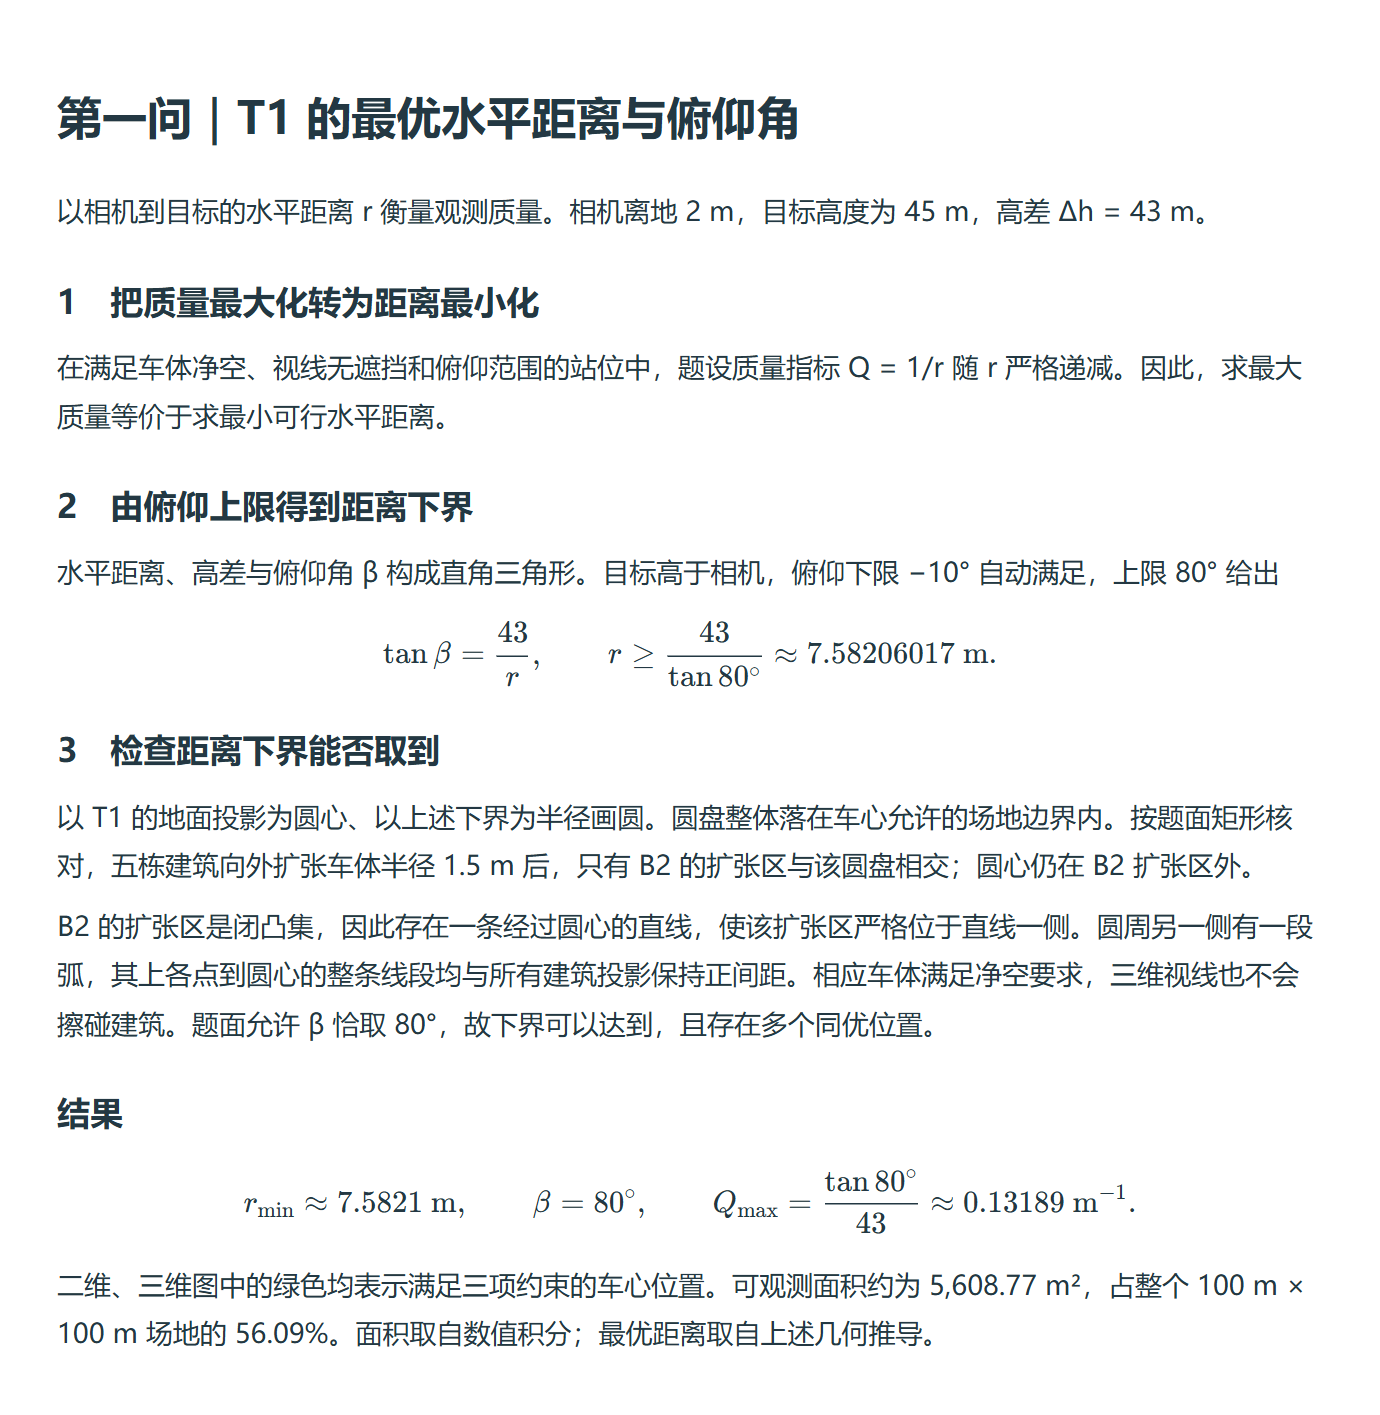
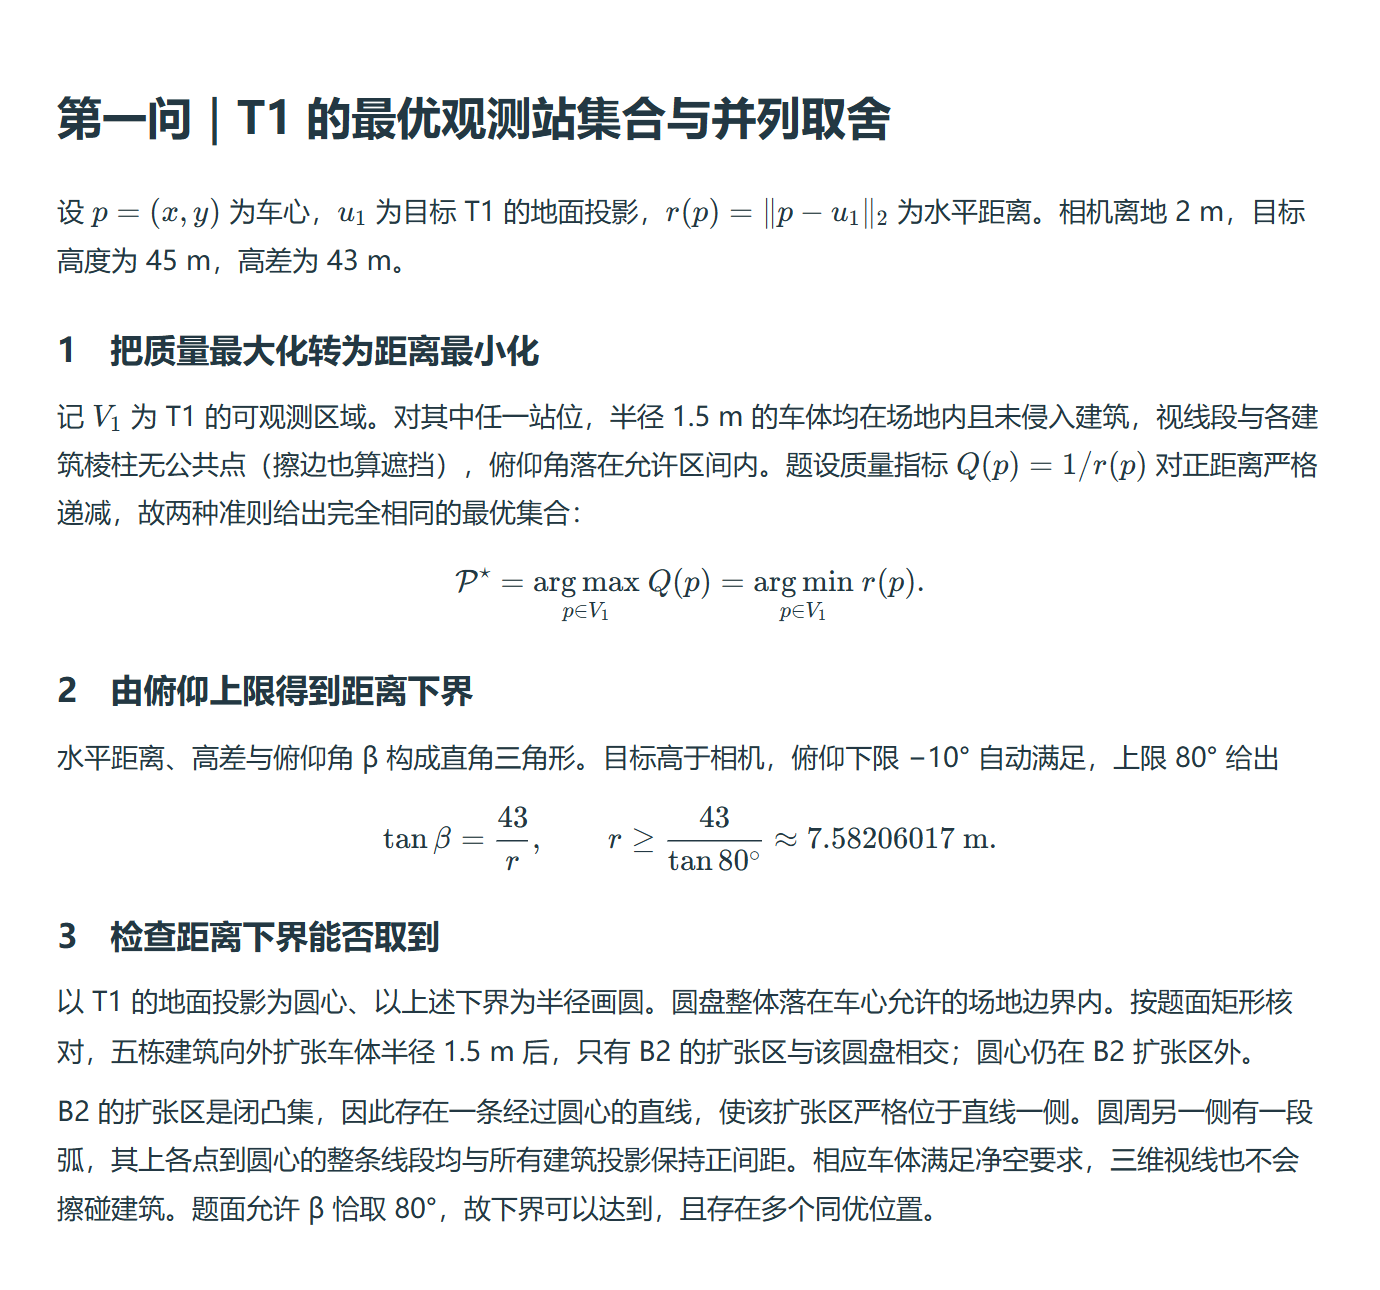
补全第一问最优集合及并列规则并同步节点

Changed region(s): [[0.0312, 0.4961, 0.9659, 0.9612], [0.0312, 0.062, 0.9659, 0.4961]]

diff --git a/第一问/文档/第一问推导与结果.md b/第一问/文档/第一问推导与结果.md
@@ -1,10 +1,12 @@
-# 第一问｜T1 的最优水平距离与俯仰角
+# 第一问｜T1 的最优观测站集合与并列取舍
 
-以相机到目标的水平距离 r 衡量观测质量。相机离地 2 m，目标高度为 45 m，高差 Δh = 43 m。
+设 $p=(x,y)$ 为车心，$u_1$ 为目标 T1 的地面投影，$r(p)=\|p-u_1\|_2$ 为水平距离。相机离地 2 m，目标高度为 45 m，高差为 43 m。
 
 ## 1　把质量最大化转为距离最小化
 
-在满足车体净空、视线无遮挡和俯仰范围的站位中，题设质量指标 Q = 1/r 随 r 严格递减。因此，求最大质量等价于求最小可行水平距离。
+记 $V_1$ 为 T1 的可观测区域。对其中任一站位，半径 1.5 m 的车体均在场地内且未侵入建筑，视线段与各建筑棱柱无公共点（擦边也算遮挡），俯仰角落在允许区间内。题设质量指标 $Q(p)=1/r(p)$ 对正距离严格递减，故两种准则给出完全相同的最优集合：
+
+$$\mathcal P^\star=\underset{p\in V_1}{\arg\max}\ Q(p)=\underset{p\in V_1}{\arg\min}\ r(p).$$
 
 ## 2　由俯仰上限得到距离下界
 
@@ -18,8 +20,20 @@ $$\tan\beta=\frac{43}{r},\qquad r\geq\frac{43}{\tan 80^\circ}\approx 7.58206017\
 
 B2 的扩张区是闭凸集，因此存在一条经过圆心的直线，使该扩张区严格位于直线一侧。圆周另一侧有一段弧，其上各点到圆心的整条线段均与所有建筑投影保持正间距。相应车体满足净空要求，三维视线也不会擦碰建筑。题面允许 β 恰取 80°，故下界可以达到，且存在多个同优位置。
 
-## 结果
+## 4　最优站位集合与对应数值
+
+令 $r_\star=43/\tan80^\circ$（米）。由下界及其可达性，全部最优站位恰为可观测区域与该等距圆周的交集：
+
+$$\mathcal P^\star=V_1\cap\{p:\|p-u_1\|_2=r_\star\}.$$
+
+圆周上满足三项可观测条件的每个点均取得以下数值。集合判定使用精确半径，展示时才四舍五入。
 
 $$r_{\min}\approx7.5821\ \mathrm{m},\qquad \beta=80^\circ,\qquad Q_{\max}=\frac{\tan80^\circ}{43}\approx0.13189\ \mathrm{m}^{-1}.$$
 
-二维、三维图中的绿色均表示满足三项约束的车心位置。可观测面积约为 5,608.77 m²，占整个 100 m × 100 m 场地的 56.09%。面积取自数值积分；最优距离取自上述几何推导。
+二维、三维图中的绿色均表示整个可观测区域 $V_1$，面积约为 5,608.77 m²，占全场的 56.09%。最优集合仅包含其中水平距离恰取 $r_\star$ 的点。
+
+## 5　并列时如何取舍
+
+仅在 $\mathcal P^\star$ 内比较。对每个同优站位，分别求从五个给定起点出发、且车体全程满足场地与建筑净空约束的最短路程，取其中最短者作为该站位的比较值。优先取比较值最小的站位。由于各车速度均为 3 m/s，这等价于优先缩短首车行驶时间。若比较值仍相同，先取 $x$ 较小者；若 $x$ 也相同，再取 $y$ 较小者。
+
+上述路程和坐标仅用于质量相同后的排序。本问报告完整最优集合及其共同数值，并列规则作为需要取一个代表站位时的约定。

diff --git a/workbook.md b/workbook.md
@@ -27,3 +27,7 @@
 ## sw26-file-types
 - 各分问及综合目录内细分图片、代码、文档；更新结果路径与节点文件引用，保留服务控制文件。
 - 四问和综合均设图片、代码、文档。JSON 结果归文档；两项暂无代码的题目保留空目录。44 项网页产物与预览核对通过，绘图路径验证通过，第三问复跑结果一致。
+
+## sw26-q1-set
+- 补全第一问文档的最优集合、数值与并列规则，并更新节点公式预览。
+- 文档与两页公式预览已更新，B/C/D 三处正文和全部预览均核验通过。
